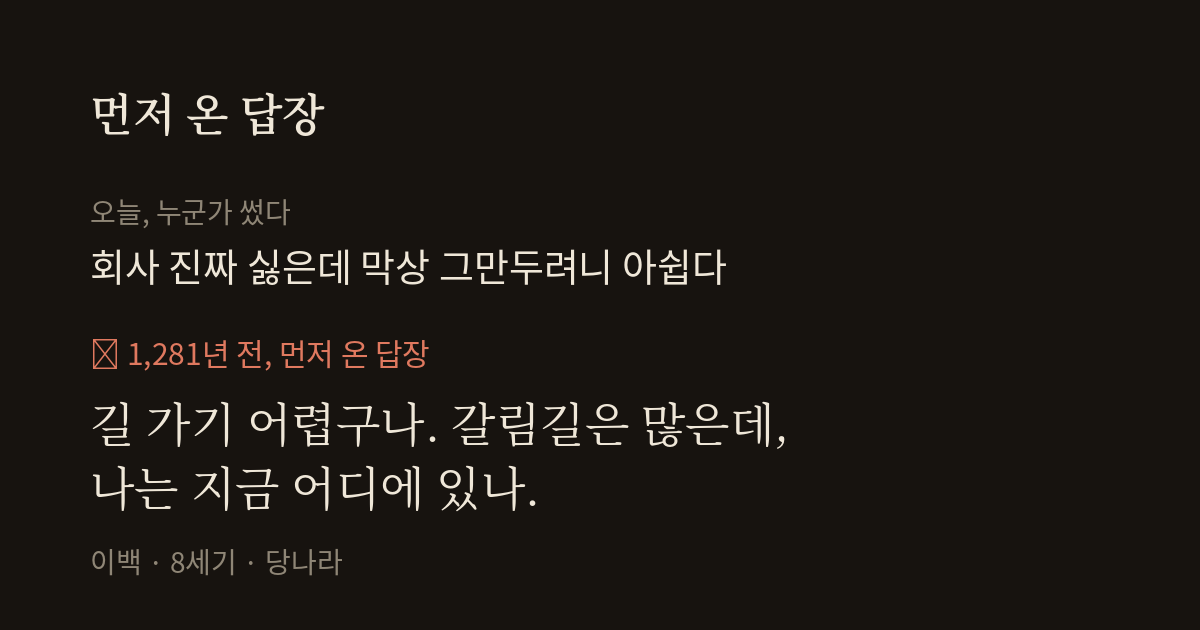
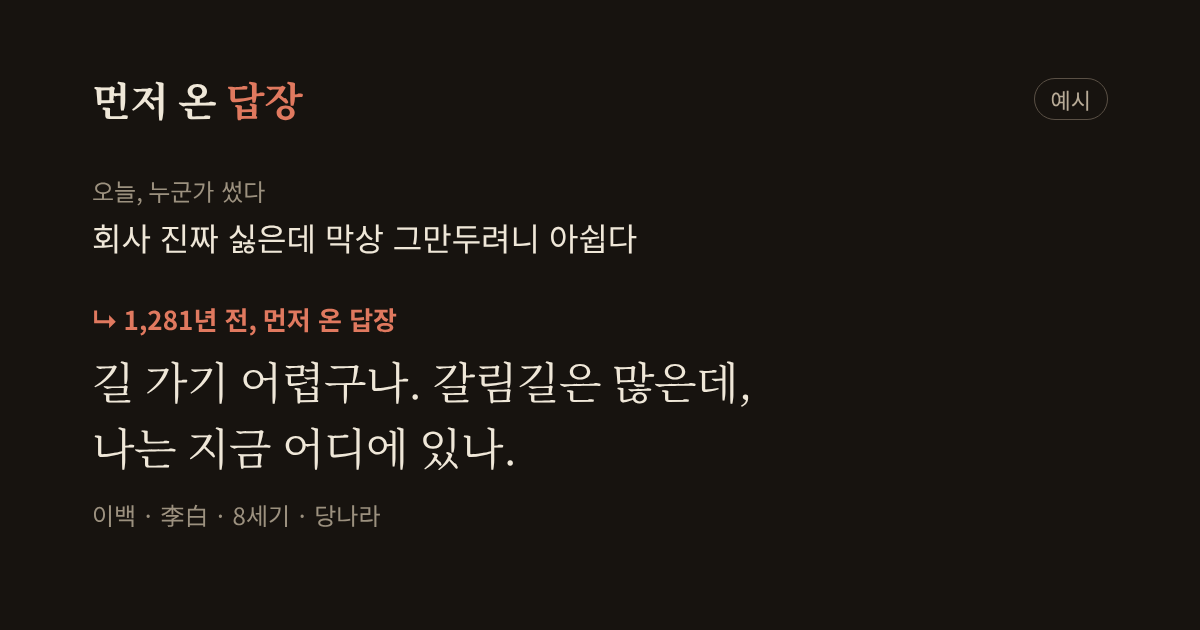
안내·확인 기능 보완(이전 프로젝트들과 비교)
- 관리 화면: 받은 의견 읽기, 신고된 글 되살리기·지우기, 글 찾아 지우기
- 소개: 보관 기간, 기기 바꿨을 때 삭제 요청 방법, 방문 통계·외부 서비스 안내, 홈 화면 추가 안내, 깃허브 의견 링크, 버전 표시
- 공유 창에 Threads·X 버튼, 공유 주소는 넘김 없는 /post?id=
- 개별 글 주소의 미리보기에 받은 옛 문장 표시, canonical 주소
- manifest(홈 화면 추가), robots.txt, 404 화면, 미리보기 이미지 크기·설명
- 미리보기 이미지 다시 그림(깨진 화살표 수정, '예시' 표시)

Claude-Session: https://claude.ai/code/session_01AykeQy5Qfm5Dpw6jpjrBLj

diff --git a/public/admin.html b/public/admin.html
@@ -22,22 +22,78 @@
 </head>
 <body>
 <main class="wrap">
-  <h1>의미 검색 준비</h1>
-  <p class="lead">문장이 바뀔 때마다 한 번 눌러 주세요. 문장들의 의미값을 계산해 저장해요. 1~2분 걸려요.</p>
+  <h1>관리</h1>
+  <p class="lead">관리자만 쓰는 화면이에요. 주소를 다른 사람에게 알리지 마세요.</p>
   <label for="key" class="hint">관리자 열쇠 (Cloudflare에 넣어 둔 ADMIN_KEY)</label>
-  <textarea id="key" style="min-height:56px" autocomplete="off"></textarea>
+  <input id="key" type="password" autocomplete="off" class="field">
+
+  <h2>받은 의견</h2>
+  <div class="row"><button class="btn line" id="fbLoad">불러오기</button></div>
+  <div id="fbList"></div>
+
+  <h2>신고된 글</h2>
+  <p class="hint">서로 다른 3명이 신고하면 자동으로 가려져요. 잘못 가려졌으면 되살리고, 문제가 있으면 지워요.</p>
+  <div class="row"><button class="btn line" id="rpLoad">불러오기</button></div>
+  <div id="rpList"></div>
+
+  <h2>글 찾아 지우기</h2>
+  <p class="hint">기기를 바꿔 직접 지울 수 없는 사람이 의견으로 글 주소를 보내오면 여기서 지워요.</p>
+  <input id="pid" class="field" placeholder="글 주소 또는 id" autocomplete="off">
+  <div class="row"><button class="btn line" id="pFind">찾기</button></div>
+  <div id="pOne"></div>
+
+  <h2>의미 검색 준비</h2>
+  <p class="hint">문장이 바뀌어 다시 배포할 때마다 한 번 눌러 주세요. 문장들의 의미값을 계산해 저장해요. 1~2분 걸려요.</p>
   <div class="row"><button class="btn" id="go">계산 시작</button><button class="btn line" id="chk">상태 확인</button></div>
   <p id="log" class="hint" aria-live="polite"></p>
 </main>
 <script type="module">
-import { api, $, chrome } from '/js/common.js';
+import { api, $, chrome, esc } from '/js/common.js';
 chrome('');
+const key = () => $('#key').value.trim();
 const log = (s) => { $('#log').textContent = s; };
-$('#chk').onclick = async () => { const r = await api('admin/embed', { method: 'POST', body: { key: $('#key').value.trim(), check: true } }); log(r.error || (r.ready ? `준비 완료 · 문장 ${r.total}개` : `아직 준비되지 않았어요 · 문장 ${r.total}개`)); };
+const call = (body) => api('admin/manage', { method: 'POST', body: { key: key(), ...body } });
+const when = (ms) => new Date(ms).toLocaleString('ko-KR');
+const postRow = (p) => `<article class="post" data-id="${esc(p.id)}">
+  <header><span>${when(p.at)}</span><span>· 신고 ${p.reports || 0}</span>${p.hidden ? '<span class="badge">가려짐</span>' : ''}</header>
+  <p class="text">${esc(p.text)}</p>
+  <p class="hint">답글: ${esc(p.quote?.author?.name || '')} · ${esc((p.quote?.ko || '').slice(0, 40))}</p>
+  <footer><a href="/post.html?id=${encodeURIComponent(p.id)}" target="_blank" rel="noopener">글 보기</a><span class="sp"></span>
+    ${p.hidden ? '<button data-a="restore">되살리기</button>' : '<button data-a="hide">가리기</button>'}<button data-a="delete">지우기</button></footer></article>`;
+async function act(e) {
+  const btn = e.target.closest('button[data-a]'); if (!btn) return;
+  const card = btn.closest('[data-id]'); const a = btn.dataset.a;
+  if (a === 'delete' && btn.dataset.sure !== '1') { btn.dataset.sure = '1'; btn.textContent = '정말 지우기'; return; }
+  const r = await call({ act: a, id: card.dataset.id });
+  if (r.error) return alertMsg(card, r.error);
+  card.outerHTML = `<p class="hint">${{ restore: '되살렸어요.', hide: '가렸어요.', delete: '지웠어요.' }[a]}</p>`;
+}
+const alertMsg = (el, m) => el.insertAdjacentHTML('beforeend', `<p class="err">${esc(m)}</p>`);
+for (const id of ['#rpList', '#pOne']) $(id).addEventListener('click', act);
+
+$('#fbLoad').onclick = async () => {
+  const r = await call({ act: 'feedback' });
+  $('#fbList').innerHTML = r.error ? `<p class="err">${esc(r.error)}</p>` : r.feedback.length
+    ? r.feedback.map((f) => `<div class="box" data-fb="${f.id}"><p class="hint">${when(f.created_at)}</p><p style="white-space:pre-wrap;margin:6px 0">${esc(f.text)}</p><button class="btn line" data-done="${f.id}">확인했어요 (지우기)</button></div>`).join('')
+    : '<p class="hint">받은 의견이 없어요.</p>';
+};
+$('#fbList').addEventListener('click', async (e) => {
+  const id = e.target.dataset?.done; if (!id) return;
+  const r = await call({ act: 'feedback-done', id }); if (!r.error) e.target.closest('[data-fb]').remove();
+});
+$('#rpLoad').onclick = async () => {
+  const r = await call({ act: 'reported' });
+  $('#rpList').innerHTML = r.error ? `<p class="err">${esc(r.error)}</p>` : r.posts.length ? r.posts.map(postRow).join('') : '<p class="hint">신고된 글이 없어요.</p>';
+};
+$('#pFind').onclick = async () => {
+  const r = await call({ act: 'find', id: $('#pid').value });
+  $('#pOne').innerHTML = r.error ? `<p class="err">${esc(r.error)}</p>` : postRow(r.post);
+};
+$('#chk').onclick = async () => { const r = await api('admin/embed', { method: 'POST', body: { key: key(), check: true } }); log(r.error || (r.ready ? `준비 완료 · 문장 ${r.total}개` : `아직 준비되지 않았어요 · 문장 ${r.total}개`)); };
 $('#go').onclick = async () => {
   let chunk = 0;
   for (;;) {
-    const r = await api('admin/embed', { method: 'POST', body: { key: $('#key').value.trim(), chunk } });
+    const r = await api('admin/embed', { method: 'POST', body: { key: key(), chunk } });
     if (r.error) return log('멈췄어요: ' + r.error);
     log(`${r.saved ?? r.total} / ${r.total}`);
     if (r.done) return log(`끝났어요 · 문장 ${r.total}개`);

diff --git a/public/about.html b/public/about.html
@@ -10,10 +10,15 @@
 <meta property="og:title" content="소개 · 먼저 온 답장">
 <meta property="og:description" content="오늘 쓴 한두 줄에, 오래전 누군가가 실제로 남긴 문장이 답글로 달립니다.">
 <meta property="og:image" content="/og.png">
+<meta property="og:image:width" content="1200">
+<meta property="og:image:height" content="630">
+<meta property="og:image:alt" content="먼저 온 답장 — 오늘 쓴 글에 1,281년 전 이백의 문장이 답글로 달린 예시 카드">
+<meta property="og:locale" content="ko_KR">
 <meta name="twitter:card" content="summary_large_image">
 <meta name="theme-color" content="#f4efe6">
 <link rel="icon" href="/favicon.svg" type="image/svg+xml">
 <link rel="apple-touch-icon" href="/icon-180.png">
+<link rel="manifest" href="/manifest.webmanifest">
 <link rel="preconnect" href="https://fonts.googleapis.com">
 <link rel="preconnect" href="https://fonts.gstatic.com" crossorigin>
 <link href="https://fonts.googleapis.com/css2?family=Gowun+Batang:wght@400;700&display=swap" rel="stylesheet">
@@ -47,11 +52,14 @@
   <div class="box">
     <ul>
       <li>가입도 로그인도 없어요. 모든 글은 이름 없이 공개돼요.</li>
-      <li>서버에 저장하는 것: 쓴 글, 받은 답글, 쓴 시각, '어울려요' 수, 삭제 확인용 암호값.</li>
+      <li>서버에 저장하는 것: 쓴 글, 받은 답글, 쓴 시각, '어울려요' 수, 삭제 확인용 암호값. 글은 지우기 전까지 보관해요.</li>
       <li>이 기기에만 저장하는 것: 내 글 목록, 최근 받은 문장, 내가 누른 버튼. 브라우저 기록을 지우면 내 글 표시와 삭제 버튼도 사라져요.</li>
       <li>도배를 막으려고 접속 주소(IP)를 알아볼 수 없는 값으로 바꿔 잠깐 세어요. 하루가 지나면 쓸 수 없는 값이 돼요.</li>
       <li>욕설·비하, 연락처, 광고가 들어간 글은 올라가지 않아요. 세 명이 신고한 글은 가려져요.</li>
-      <li>AI 한 줄을 쓸 때 글 내용이 Cloudflare의 AI 기능으로 전달돼요.</li>
+      <li>답글을 고르고 'AI 연결' 한 줄을 쓸 때 글 내용이 Cloudflare의 AI 기능으로 전달돼요. 그곳에 따로 저장되지는 않아요.</li>
+      <li>방문 통계는 쿠키 없이 익명으로만 세요(Cloudflare Web Analytics). 화면 글꼴은 Google Fonts에서 받아 와요.</li>
+      <li>기기를 바꾸거나 브라우저 기록을 지워 내 글을 지울 수 없게 되면, 아래 '의견 보내기'에 글 주소(공유 → 링크 복사)를 적어 주세요. 확인한 뒤 지워 드려요.</li>
+      <li>보내 주신 의견은 관리자만 읽고, 확인한 뒤 지워요.</li>
     </ul>
   </div>
 
@@ -63,11 +71,21 @@
     <a class="tel" href="tel:1388"><span>청소년 상담 · 24시간</span><b>1388</b></a>
   </div>
 
+  <h2 id="home">휴대폰 홈 화면에 두기</h2>
+  <div class="box">
+    <ul>
+      <li>아이폰 사파리: 아래 공유 버튼 → '홈 화면에 추가'</li>
+      <li>안드로이드 크롬: 오른쪽 위 ⋮ → '홈 화면에 추가'</li>
+    </ul>
+  </div>
+
   <h2 id="feedback">의견 보내기</h2>
-  <p class="hint">틀린 번역, 어색한 답글, 바라는 점을 알려 주세요. 답장을 받으려면 연락처를 함께 적어 주세요.</p>
+  <p class="hint">틀린 번역, 어색한 답글, 바라는 점, 글 삭제 요청을 알려 주세요. 여기 적은 의견은 공개되지 않아요. 답장을 받으려면 연락처를 함께 적어 주세요.</p>
   <textarea id="fb" maxlength="1000" placeholder="의견을 적어 주세요" style="min-height:110px"></textarea>
   <p class="err" id="fbErr" role="alert"></p>
   <div class="row"><button class="btn" id="fbSend">보내기</button></div>
+  <p class="hint">공개해도 괜찮은 의견은 <a href="https://github.com/grayash/early-reply/issues/new?title=%EC%9D%98%EA%B2%AC%3A%20" target="_blank" rel="noopener">깃허브에 남겨도</a> 돼요.</p>
+  <p class="foot">버전 1.0 · 2026년 11월 · <a href="https://github.com/grayash/early-reply" target="_blank" rel="noopener">만든 과정 보기</a></p>
 </main>
 <script type="module" src="/js/about.js"></script>
 </body>

diff --git a/functions/_middleware.js b/functions/_middleware.js
@@ -1,11 +1,40 @@
-// 미리보기 이미지 주소를 접속한 주소 기준의 전체 주소로 바꿔 준다 (카카오톡·메신저 미리보기용)
+// 페이지 머리말 다듬기 (카카오톡·메신저 미리보기용)
+// - 미리보기 이미지와 주소를 접속한 주소 기준의 전체 주소로 바꾼다
+// - 개별 글 주소(/post.html?id=…)를 공유하면, 미리보기에 그 글이 받은 옛 문장이 보이게 한다
+import { QMAP, DATA } from './_lib/util.js';
+
+const esc = (s) => String(s).replace(/[&<>"]/g, (c) => ({ '&': '&amp;', '<': '&lt;', '>': '&gt;', '"': '&quot;' }[c]));
+const cut = (s, n) => (s.length > n ? s.slice(0, n - 1) + '…' : s);
+
 export async function onRequest(ctx) {
   const res = await ctx.next();
   const type = res.headers.get('content-type') || '';
   if (!type.includes('text/html')) return res;
   const u = new URL(ctx.request.url);
-  return new HTMLRewriter()
+  const page = u.pathname.replace(/\.html$/, '').replace(/\/$/, '') || '/';
+
+  let og = null;
+  if (page === '/post' && u.searchParams.get('id') && ctx.env.DB) {
+    try {
+      const r = await ctx.env.DB.prepare('SELECT quote_id FROM posts WHERE id = ? AND hidden = 0').bind(u.searchParams.get('id')).first();
+      const q = r && QMAP.get(r.quote_id);
+      if (q) {
+        const a = DATA.authors[q.a] || {};
+        og = { title: `${a.name}의 답장 · 먼저 온 답장`, desc: cut(`“${q.ko}” — ${a.name}`, 110) };
+      }
+    } catch { /* 미리보기는 기본값으로 */ }
+  }
+  // 주소 하나로 모은다: 글 주소는 id까지, 나머지는 쿼리 없이
+  const canon = `${u.origin}${u.pathname}${page === '/post' && u.searchParams.get('id') ? `?id=${encodeURIComponent(u.searchParams.get('id'))}` : page === '/person' && u.searchParams.get('id') ? `?id=${encodeURIComponent(u.searchParams.get('id'))}` : ''}`;
+
+  let rw = new HTMLRewriter()
     .on('meta[property="og:image"]', { element(el) { el.setAttribute('content', `${u.origin}/og.png`); } })
-    .on('head', { element(el) { el.append(`<meta property="og:url" content="${u.origin}${u.pathname}">`, { html: true }); } })
-    .transform(res);
+    .on('head', { element(el) { el.append(`<meta property="og:url" content="${esc(canon)}"><link rel="canonical" href="${esc(canon)}">`, { html: true }); } });
+  if (og) {
+    rw = rw
+      .on('meta[property="og:title"]', { element(el) { el.setAttribute('content', og.title); } })
+      .on('meta[property="og:description"]', { element(el) { el.setAttribute('content', og.desc); } })
+      .on('meta[name="description"]', { element(el) { el.setAttribute('content', og.desc); } });
+  }
+  return rw.transform(res);
 }

diff --git a/functions/api/admin/manage.js b/functions/api/admin/manage.js
@@ -1,0 +1,48 @@
+import { json, readBody, postView } from '../../_lib/util.js';
+
+// 관리자용: 받은 의견 보기, 신고로 가려진 글 보기·되살리기, 글 지우기(기기를 잃은 사람의 삭제 요청 등)
+// ADMIN_KEY(비밀 값)가 맞아야 한다.
+export async function onRequestPost({ request, env }) {
+  const b = await readBody(request);
+  if (!env.ADMIN_KEY || b.key !== env.ADMIN_KEY) return json({ error: '열쇠가 맞지 않아요.' }, 403);
+  const DB = env.DB;
+
+  if (b.act === 'feedback') {
+    const { results } = await DB.prepare('SELECT id, text, created_at FROM feedback ORDER BY id DESC LIMIT 100').all();
+    return json({ feedback: results });
+  }
+  if (b.act === 'feedback-done') {
+    await DB.prepare('DELETE FROM feedback WHERE id = ?').bind(Number(b.id)).run();
+    return json({ ok: true });
+  }
+  if (b.act === 'reported') {
+    const { results } = await DB.prepare('SELECT * FROM posts WHERE reports > 0 ORDER BY hidden DESC, reports DESC, created_at DESC LIMIT 100').all();
+    return json({ posts: results.map((r) => ({ ...postView(r), reports: r.reports, hidden: !!r.hidden })) });
+  }
+  const id = String(b.id || '').trim().replace(/^.*[?&]id=/, '');
+  if (!id) return json({ error: '글 주소나 id를 넣어 주세요.' }, 400);
+  if (b.act === 'find') {
+    const r = await DB.prepare('SELECT * FROM posts WHERE id = ?').bind(id).first();
+    return r ? json({ post: { ...postView(r), reports: r.reports, hidden: !!r.hidden } }) : json({ error: '그런 글이 없어요.' }, 404);
+  }
+  if (b.act === 'restore') {
+    await DB.batch([
+      DB.prepare('UPDATE posts SET hidden = 0, reports = 0 WHERE id = ?').bind(id),
+      DB.prepare('DELETE FROM reports WHERE post_id = ?').bind(id),
+    ]);
+    return json({ ok: true });
+  }
+  if (b.act === 'hide') {
+    await DB.prepare('UPDATE posts SET hidden = 1 WHERE id = ?').bind(id).run();
+    return json({ ok: true });
+  }
+  if (b.act === 'delete') {
+    await DB.batch([
+      DB.prepare('DELETE FROM posts WHERE id = ?').bind(id),
+      DB.prepare('DELETE FROM votes WHERE post_id = ?').bind(id),
+      DB.prepare('DELETE FROM reports WHERE post_id = ?').bind(id),
+    ]);
+    return json({ ok: true });
+  }
+  return json({ error: '알 수 없는 요청이에요.' }, 400);
+}

diff --git a/public/404.html b/public/404.html
@@ -1,0 +1,36 @@
+<!DOCTYPE html>
+<html lang="ko">
+<head>
+<meta charset="utf-8">
+<meta name="robots" content="noindex">
+<meta name="viewport" content="width=device-width, initial-scale=1, viewport-fit=cover">
+<title>찾을 수 없는 주소 · 먼저 온 답장</title>
+<meta name="description" content="오늘 쓴 한두 줄에, 오래전 누군가가 실제로 남긴 문장이 답글로 달립니다.">
+<meta property="og:type" content="website">
+<meta property="og:site_name" content="먼저 온 답장">
+<meta property="og:title" content="소개 · 먼저 온 답장">
+<meta property="og:description" content="오늘 쓴 한두 줄에, 오래전 누군가가 실제로 남긴 문장이 답글로 달립니다.">
+<meta property="og:image" content="/og.png">
+<meta property="og:image:width" content="1200">
+<meta property="og:image:height" content="630">
+<meta property="og:image:alt" content="먼저 온 답장 — 오늘 쓴 글에 1,281년 전 이백의 문장이 답글로 달린 예시 카드">
+<meta property="og:locale" content="ko_KR">
+<meta name="twitter:card" content="summary_large_image">
+<meta name="theme-color" content="#f4efe6">
+<link rel="icon" href="/favicon.svg" type="image/svg+xml">
+<link rel="apple-touch-icon" href="/icon-180.png">
+<link rel="manifest" href="/manifest.webmanifest">
+<link rel="preconnect" href="https://fonts.googleapis.com">
+<link rel="preconnect" href="https://fonts.gstatic.com" crossorigin>
+<link href="https://fonts.googleapis.com/css2?family=Gowun+Batang:wght@400;700&display=swap" rel="stylesheet">
+<link rel="stylesheet" href="/css/app.css">
+</head>
+<body>
+<main class="wrap">
+  <h1>찾을 수 없는 주소예요</h1>
+  <p class="lead">주소가 바뀌었거나, 글이 지워졌을 수 있어요.</p>
+  <div class="row"><a class="btn accent" href="/">피드로 가기</a><a class="btn line" href="/write.html">글 쓰러 가기</a></div>
+</main>
+<script type="module">import { chrome } from '/js/common.js'; chrome('');</script>
+</body>
+</html>

diff --git a/public/js/common.js b/public/js/common.js
@@ -203,14 +203,20 @@ export function openShare(post) {
       <canvas></canvas>
       <label><input type="checkbox" id="shText" checked> 쓴 글도 카드에 함께 넣기</label>
       <div class="row"><button class="btn" id="shImg">이미지로 공유</button><button class="btn line" id="shLink">링크 복사</button></div>
+      <div class="row" id="shSns"><a class="btn line" id="shTh" target="_blank" rel="noopener">Threads</a><a class="btn line" id="shX" target="_blank" rel="noopener">X</a></div>
       <button class="btn line more" id="shClose">닫기</button></div>`;
     document.body.append(sh);
     sh.addEventListener('click', (e) => { if (e.target === sh) sh.classList.remove('on'); });
     $('#shClose', sh).onclick = () => sh.classList.remove('on');
   }
   const canvas = $('canvas', sh); const chk = $('#shText', sh);
-  const url = `${location.origin}/post.html?id=${encodeURIComponent(post.id)}`;
+  const url = `${location.origin}/post?id=${encodeURIComponent(post.id)}`;
   const draw = () => drawCard(canvas, post, chk.checked);
+  // Threads·X: 글 주소와 한 줄 소개를 담아 각 서비스의 글쓰기 화면을 연다
+  const msg = `${num(post.quote.ago)}년 전, ${josa(post.quote.author.name, '이/가')} 먼저 써 둔 답장`;
+  $('#shSns', sh).hidden = !!post.sample;
+  $('#shTh', sh).href = `https://www.threads.net/intent/post?text=${encodeURIComponent(msg + '\n' + url)}`;
+  $('#shX', sh).href = `https://twitter.com/intent/tweet?text=${encodeURIComponent(msg)}&url=${encodeURIComponent(url)}`;
   chk.onchange = draw; draw();
   $('#shImg', sh).onclick = async () => {
     await draw();

diff --git a/public/index.html b/public/index.html
@@ -10,10 +10,15 @@
 <meta property="og:title" content="먼저 온 답장 · 옛 사람이 먼저 써 둔 답글">
 <meta property="og:description" content="오늘 쓴 한두 줄에, 오래전 누군가가 실제로 남긴 문장이 답글로 달립니다.">
 <meta property="og:image" content="/og.png">
+<meta property="og:image:width" content="1200">
+<meta property="og:image:height" content="630">
+<meta property="og:image:alt" content="먼저 온 답장 — 오늘 쓴 글에 1,281년 전 이백의 문장이 답글로 달린 예시 카드">
+<meta property="og:locale" content="ko_KR">
 <meta name="twitter:card" content="summary_large_image">
 <meta name="theme-color" content="#f4efe6">
 <link rel="icon" href="/favicon.svg" type="image/svg+xml">
 <link rel="apple-touch-icon" href="/icon-180.png">
+<link rel="manifest" href="/manifest.webmanifest">
 <link rel="preconnect" href="https://fonts.googleapis.com">
 <link rel="preconnect" href="https://fonts.gstatic.com" crossorigin>
 <link href="https://fonts.googleapis.com/css2?family=Gowun+Batang:wght@400;700&display=swap" rel="stylesheet">

diff --git a/public/person.html b/public/person.html
@@ -10,10 +10,15 @@
 <meta property="og:title" content="답한 사람 · 먼저 온 답장">
 <meta property="og:description" content="오늘 쓴 한두 줄에, 오래전 누군가가 실제로 남긴 문장이 답글로 달립니다.">
 <meta property="og:image" content="/og.png">
+<meta property="og:image:width" content="1200">
+<meta property="og:image:height" content="630">
+<meta property="og:image:alt" content="먼저 온 답장 — 오늘 쓴 글에 1,281년 전 이백의 문장이 답글로 달린 예시 카드">
+<meta property="og:locale" content="ko_KR">
 <meta name="twitter:card" content="summary_large_image">
 <meta name="theme-color" content="#f4efe6">
 <link rel="icon" href="/favicon.svg" type="image/svg+xml">
 <link rel="apple-touch-icon" href="/icon-180.png">
+<link rel="manifest" href="/manifest.webmanifest">
 <link rel="preconnect" href="https://fonts.googleapis.com">
 <link rel="preconnect" href="https://fonts.gstatic.com" crossorigin>
 <link href="https://fonts.googleapis.com/css2?family=Gowun+Batang:wght@400;700&display=swap" rel="stylesheet">

diff --git a/public/post.html b/public/post.html
@@ -10,10 +10,15 @@
 <meta property="og:title" content="답장 · 먼저 온 답장">
 <meta property="og:description" content="오늘 쓴 한두 줄에, 오래전 누군가가 실제로 남긴 문장이 답글로 달립니다.">
 <meta property="og:image" content="/og.png">
+<meta property="og:image:width" content="1200">
+<meta property="og:image:height" content="630">
+<meta property="og:image:alt" content="먼저 온 답장 — 오늘 쓴 글에 1,281년 전 이백의 문장이 답글로 달린 예시 카드">
+<meta property="og:locale" content="ko_KR">
 <meta name="twitter:card" content="summary_large_image">
 <meta name="theme-color" content="#f4efe6">
 <link rel="icon" href="/favicon.svg" type="image/svg+xml">
 <link rel="apple-touch-icon" href="/icon-180.png">
+<link rel="manifest" href="/manifest.webmanifest">
 <link rel="preconnect" href="https://fonts.googleapis.com">
 <link rel="preconnect" href="https://fonts.gstatic.com" crossorigin>
 <link href="https://fonts.googleapis.com/css2?family=Gowun+Batang:wght@400;700&display=swap" rel="stylesheet">

diff --git a/public/write.html b/public/write.html
@@ -10,10 +10,15 @@
 <meta property="og:title" content="쓰기 · 먼저 온 답장">
 <meta property="og:description" content="오늘 쓴 한두 줄에, 오래전 누군가가 실제로 남긴 문장이 답글로 달립니다.">
 <meta property="og:image" content="/og.png">
+<meta property="og:image:width" content="1200">
+<meta property="og:image:height" content="630">
+<meta property="og:image:alt" content="먼저 온 답장 — 오늘 쓴 글에 1,281년 전 이백의 문장이 답글로 달린 예시 카드">
+<meta property="og:locale" content="ko_KR">
 <meta name="twitter:card" content="summary_large_image">
 <meta name="theme-color" content="#f4efe6">
 <link rel="icon" href="/favicon.svg" type="image/svg+xml">
 <link rel="apple-touch-icon" href="/icon-180.png">
+<link rel="manifest" href="/manifest.webmanifest">
 <link rel="preconnect" href="https://fonts.googleapis.com">
 <link rel="preconnect" href="https://fonts.gstatic.com" crossorigin>
 <link href="https://fonts.googleapis.com/css2?family=Gowun+Batang:wght@400;700&display=swap" rel="stylesheet">

diff --git a/public/rank.html b/public/rank.html
@@ -10,10 +10,15 @@
 <meta property="og:title" content="순위 · 먼저 온 답장">
 <meta property="og:description" content="오늘 가장 많이 답한 옛 사람과 이번 주에 가장 공감받은 문장.">
 <meta property="og:image" content="/og.png">
+<meta property="og:image:width" content="1200">
+<meta property="og:image:height" content="630">
+<meta property="og:image:alt" content="먼저 온 답장 — 오늘 쓴 글에 1,281년 전 이백의 문장이 답글로 달린 예시 카드">
+<meta property="og:locale" content="ko_KR">
 <meta name="twitter:card" content="summary_large_image">
 <meta name="theme-color" content="#f4efe6">
 <link rel="icon" href="/favicon.svg" type="image/svg+xml">
 <link rel="apple-touch-icon" href="/icon-180.png">
+<link rel="manifest" href="/manifest.webmanifest">
 <link rel="preconnect" href="https://fonts.googleapis.com">
 <link rel="preconnect" href="https://fonts.gstatic.com" crossorigin>
 <link href="https://fonts.googleapis.com/css2?family=Gowun+Batang:wght@400;700&display=swap" rel="stylesheet">

diff --git a/public/css/app.css b/public/css/app.css
@@ -133,3 +133,4 @@ textarea:focus { outline: 2px solid var(--ink); outline-offset: 1px; }
 .orig:lang(ko), .stage .o:lang(ko) { font-family: var(--old); letter-spacing: 0; }
 .foot { text-align: center; font-size: 14px; color: var(--muted); margin: 36px 0 8px; }
 .foot a { color: inherit; }
+.field { width: 100%; font: inherit; font-size: 16px; padding: 12px 14px; border: 1px solid var(--line); border-radius: 12px; background: var(--card); color: var(--ink); }
